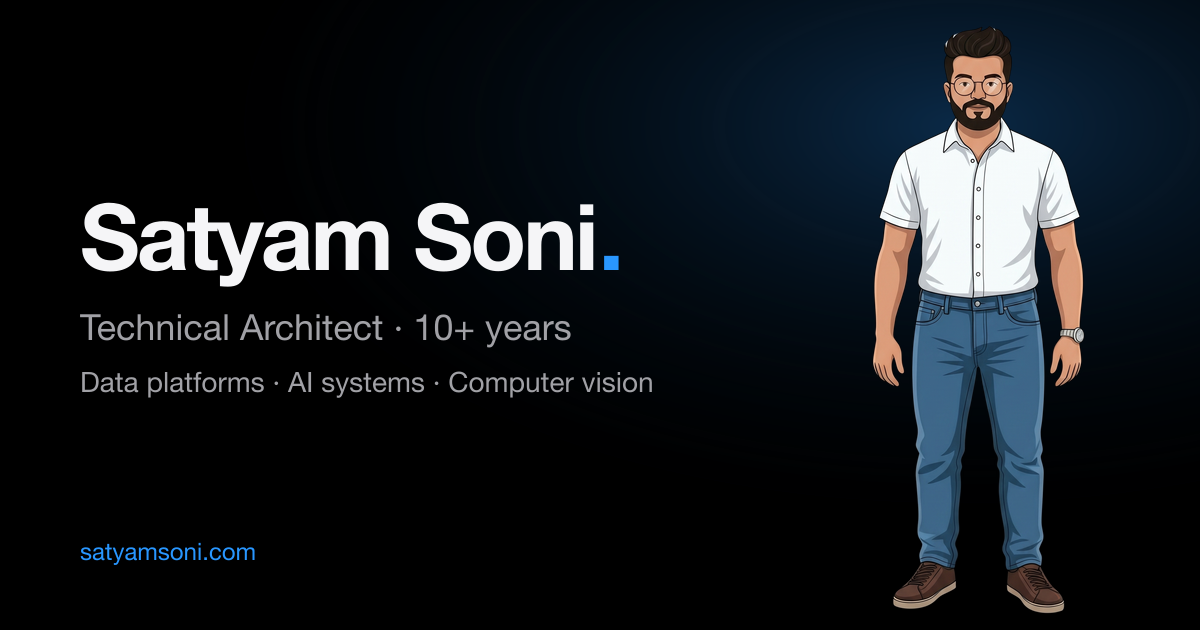
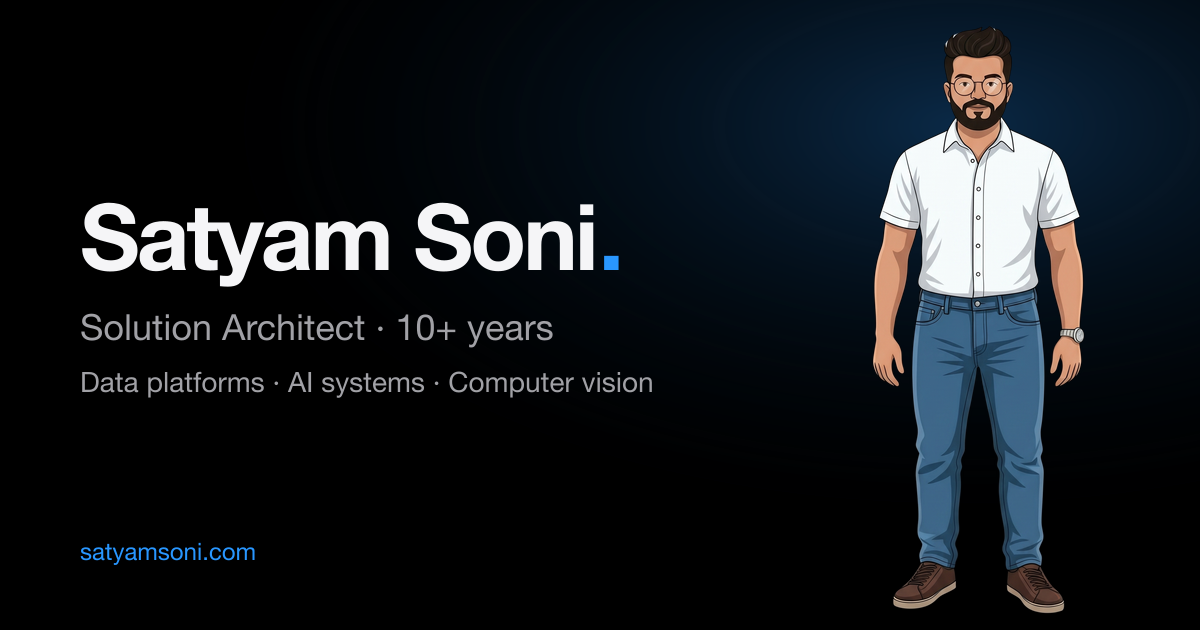
feat: EPAM Solution Architect role and Speaking section

Changed region(s): [[0.0617, 0.4825, 0.4933, 0.5429]]

diff --git a/index.html b/index.html
@@ -12,22 +12,22 @@
     </script>
     <meta charset="UTF-8" />
     <meta name="viewport" content="width=device-width, initial-scale=1.0, viewport-fit=cover" />
-    <title>Satyam Soni — Technical Architect</title>
-    <meta name="description" content="Satyam Soni is a Technical Architect with 10+ years of experience building data platforms, AI/LLM systems and computer-vision products across finance, telecom, real estate and manufacturing." />
+    <title>Satyam Soni — Solution Architect</title>
+    <meta name="description" content="Satyam Soni is a Solution Architect with 10+ years of experience building data platforms, AI/LLM systems and computer-vision products across finance, telecom, real estate and manufacturing." />
     <meta name="author" content="Satyam Soni" />
-    <meta name="keywords" content="Technical Architect, Python, AI, LLM, GraphRAG, Computer Vision, YOLO, FastAPI, AWS, Data Engineering" />
+    <meta name="keywords" content="Solution Architect, Python, AI, LLM, GraphRAG, Computer Vision, YOLO, FastAPI, AWS, Data Engineering" />
     <link rel="canonical" href="https://www.satyamsoni.com/" />
     <link rel="icon" type="image/svg+xml" href="/favicon.svg" />
     <meta name="theme-color" content="#fbfbfd" media="(prefers-color-scheme: light)" />
     <meta name="theme-color" content="#000000" media="(prefers-color-scheme: dark)" />
     <meta property="og:type" content="website" />
     <meta property="og:url" content="https://www.satyamsoni.com/" />
-    <meta property="og:title" content="Satyam Soni — Technical Architect" />
+    <meta property="og:title" content="Satyam Soni — Solution Architect" />
     <meta property="og:description" content="10+ years building data platforms, AI systems and the teams that ship them." />
     <meta property="og:image" content="https://www.satyamsoni.com/og.png" />
     <meta name="twitter:card" content="summary_large_image" />
     <meta name="twitter:creator" content="@_satyamsoni_" />
-    <meta name="twitter:title" content="Satyam Soni — Technical Architect" />
+    <meta name="twitter:title" content="Satyam Soni — Solution Architect" />
     <meta name="twitter:description" content="10+ years building data platforms, AI systems and the teams that ship them." />
     <meta name="twitter:image" content="https://www.satyamsoni.com/og.png" />
   </head>

diff --git a/src/data/profile.ts b/src/data/profile.ts
@@ -1,6 +1,6 @@
 export const profile = {
   name: 'Satyam Soni',
-  role: 'Technical Architect',
+  role: 'Solution Architect',
   location: 'Indore, Madhya Pradesh',
   email: 'satyamsoni@hotmail.co.uk',
   github: 'https://github.com/satyamsoni2211',
@@ -9,7 +9,7 @@ export const profile = {
   website: 'https://satyamsoni.in',
   pitch: 'I design data platforms, AI systems and the teams that ship them.',
   metaDescription:
-    'Satyam Soni is a Technical Architect with 10+ years of experience building data platforms, AI/LLM systems and computer-vision products across finance, telecom, real estate and manufacturing.',
+    'Satyam Soni is a Solution Architect with 10+ years of experience building data platforms, AI/LLM systems and computer-vision products across finance, telecom, real estate and manufacturing.',
   bio: [
     'Results-driven Technology Specialist with 10+ years of experience delivering data-centric solutions, driving software development, and implementing ETL pipelines and platform integration solutions to unlock scale across the finance, telecom, and real estate industries.',
     'Proven expertise in Artificial Intelligence (AI) and Large Language Models (LLMs), leveraging cutting-edge techniques to develop intelligent solutions. Adept at establishing collaboration frameworks for internal teams, building strong relationships with stakeholders, and recommending process improvements to optimize workflows.',
@@ -18,7 +18,7 @@ export const profile = {
   pillars: [
     { title: 'Data & Platforms', body: 'ETL pipelines on Airflow, cloud-native microservices on AWS, and integrations that unlock scale.' },
     { title: 'AI & LLMs', body: 'GraphRAG chatbots, GPT-4o extraction pipelines and computer-vision systems running in production.' },
-    { title: 'Leadership', body: 'Sprint planning, architecture direction and hands-on technical guidance for teams of 10+ developers.' },
+    { title: 'Leadership', body: 'Sprint planning, architecture direction, pre-sales and RFPs, hiring, and hands-on technical guidance for teams of 10+ developers.' },
   ],
   industries: ['Finance', 'Telecom', 'Real Estate', 'Manufacturing', 'Fitness', 'Sports'],
   contactBlurb: 'Feel free to reach out for collaboration, consulting, or just to chat about AI and architecture!',

diff --git a/src/sections/Speaking.tsx b/src/sections/Speaking.tsx
@@ -1,0 +1,49 @@
+import { ArrowUpRight } from 'lucide-react'
+import { RevealGroup, RevealItem } from '@/components/Reveal'
+import { Section } from '@/components/Section'
+import { Tag } from '@/components/Tag'
+import { TiltCard } from '@/components/TiltCard'
+import { talks } from '@/data/talks'
+
+const events = [...new Set(talks.map((t) => t.event))]
+const eventList = events.length > 1 ? `${events.slice(0, -1).join(', ')} and ${events[events.length - 1]}` : events[0]
+
+export function Speaking() {
+  return (
+    <Section
+      id="speaking"
+      eyebrow="Speaking"
+      title="Teaching what I build."
+      intro={`${talks.length} workshops at ${eventList}.`}
+    >
+      <RevealGroup as="ul" className="grid gap-4 sm:grid-cols-2">
+        {talks.map((talk) => (
+          <RevealItem as="li" key={talk.url} pop>
+            <TiltCard>
+              <a
+                href={talk.url}
+                target="_blank"
+                rel="noopener noreferrer"
+                className="card group flex h-full flex-col p-6 focus-visible:outline-none focus-visible:ring-2 focus-visible:ring-accent"
+              >
+                <div className="flex flex-wrap items-center gap-2 text-xs font-medium">
+                  <span className="rounded-full bg-accent/10 px-2.5 py-1 text-accent">{talk.event}</span>
+                  <span className="text-muted">{[talk.year, talk.city].filter(Boolean).join(' · ')}</span>
+                  <span className="ml-auto">
+                    <Tag>{talk.kind}</Tag>
+                  </span>
+                </div>
+                <h3 className="mt-4 text-xl font-semibold tracking-tight">{talk.title}</h3>
+                {talk.subtitle && <p className="mt-2 text-muted">{talk.subtitle}</p>}
+                <span className="mt-auto inline-flex items-center gap-1 pt-6 text-sm font-medium text-accent">
+                  View session
+                  <ArrowUpRight aria-hidden className="h-4 w-4 transition-transform group-hover:-translate-y-0.5 group-hover:translate-x-0.5" />
+                </span>
+              </a>
+            </TiltCard>
+          </RevealItem>
+        ))}
+      </RevealGroup>
+    </Section>
+  )
+}

diff --git a/src/sections/sections.test.tsx b/src/sections/sections.test.tsx
@@ -15,6 +15,7 @@ import { vi } from 'vitest'
 import { Contact } from './Contact'
 import { Education } from './Education'
 import { Skills } from './Skills'
+import { Speaking } from './Speaking'
 
 const wrap = (ui: React.ReactNode) => render(<AppProviders>{ui}</AppProviders>)
 
@@ -49,14 +50,14 @@ describe('Experience', () => {
     expect(firstSentence('No stop')).toBe('No stop')
   })
 
-  test('lists 5 roles; first is open; clicking another expands it', () => {
+  test('lists 6 roles; first is open; clicking another expands it', () => {
     wrap(<Experience />)
     const toggles = screen.getAllByRole('button').filter((b) => b.hasAttribute('aria-expanded'))
-    expect(toggles).toHaveLength(5)
+    expect(toggles).toHaveLength(6)
     expect(toggles[0]).toHaveAttribute('aria-expanded', 'true')
-    expect(toggles[1]).toHaveAttribute('aria-expanded', 'false')
-    fireEvent.click(toggles[1])
-    expect(toggles[1]).toHaveAttribute('aria-expanded', 'true')
+    expect(toggles[2]).toHaveAttribute('aria-expanded', 'false')
+    fireEvent.click(toggles[2])
+    expect(toggles[2]).toHaveAttribute('aria-expanded', 'true')
     expect(screen.getByText(/Designed fault-tolerant cloud-native architectures on AWS/)).toBeInTheDocument()
   })
 })
@@ -85,6 +86,20 @@ describe('Projects', () => {
     fireEvent.click(freelance)
     expect(freelance).toHaveAttribute('aria-pressed', 'true')
     await waitFor(() => expect(screen.queryByRole('link', { name: /FUSION/ })).not.toBeInTheDocument(), { timeout: 3000 })
+  })
+})
+
+describe('Speaking', () => {
+  test('renders four external talk links under the heading', () => {
+    wrap(<Speaking />)
+    expect(screen.getByRole('heading', { level: 2, name: 'Teaching what I build.' })).toBeInTheDocument()
+    const links = screen.getAllByRole('link')
+    expect(links).toHaveLength(4)
+    for (const a of links) {
+      expect(a).toHaveAttribute('target', '_blank')
+      expect(a.getAttribute('rel')).toContain('noopener')
+    }
+    expect(links[0]).toHaveAttribute('href', 'https://pycon.hk/2026/en/speakers/satyam-soni/')
   })
 })
 

diff --git a/src/data/data.test.ts b/src/data/data.test.ts
@@ -5,6 +5,7 @@ import { profile } from './profile'
 import { projects } from './projects'
 import { SECTION_IDS } from './sections'
 import { skillCategories } from './skills'
+import { talks } from './talks'
 
 describe('content data', () => {
   test('has 9 projects in the agreed order with unique slugs', () => {
@@ -48,11 +49,12 @@ describe('content data', () => {
     expect(bySlug['crickbuzz'].models).toEqual(['YOLO26 (custom-trained)'])
   })
 
-  test('5 jobs newest first, 8 skill categories, education present', () => {
+  test('6 jobs newest first, 8 skill categories, education present', () => {
     expect(experience.map((j) => j.company)).toEqual([
-      'SenecaGlobal Solutions Pvt Ltd.', 'HSBC Software Development (India) Pvt. Ltd.',
+      'EPAM India', 'SenecaGlobal Solutions Pvt Ltd.', 'HSBC Software Development (India) Pvt. Ltd.',
       'Infosys Ltd', 'Amdocs Development Centre India LLP', 'Gemini Solutions Pvt Ltd.',
     ])
+    expect(experience[1].period.endsWith('Sep 2025')).toBe(true)
     expect(skillCategories).toHaveLength(8)
     expect(education.school).toBe('Chamelidevi School of Engineering')
   })
@@ -63,7 +65,15 @@ describe('content data', () => {
     expect(text).not.toContain('9+')
   })
 
+  test('talks: 4 workshops, newest first, https links', () => {
+    expect(talks).toHaveLength(4)
+    const years = talks.map((t) => t.year)
+    expect(years).toEqual([...years].sort((a, b) => b - a))
+    expect(talks.every((t) => t.url.startsWith('https://'))).toBe(true)
+    expect(talks.every((t) => t.kind === 'Workshop')).toBe(true)
+  })
+
   test('section ids are fixed', () => {
-    expect(SECTION_IDS).toEqual(['hero', 'about', 'experience', 'projects', 'skills', 'education', 'contact'])
+    expect(SECTION_IDS).toEqual(['hero', 'about', 'experience', 'projects', 'speaking', 'skills', 'education', 'contact'])
   })
 })

diff --git a/src/data/experience.ts b/src/data/experience.ts
@@ -2,10 +2,19 @@ import type { Job } from './types'
 
 export const experience: Job[] = [
   {
+    company: 'EPAM India',
+    location: 'India',
+    role: 'Solution Architect – GenAI, Cloud',
+    period: 'Oct 2025 – Present',
+    description:
+      'Architecting and developing GenAI solutions for clients. Driving pre-sales and RFP activities. Mentoring developers and supporting resourcing and technical interviews. Part of the Cloud vertical, working primarily in Python.',
+    technologies: ['Python', 'Generative AI', 'LLMs', 'Cloud', 'Solution Architecture', 'Pre-sales & RFPs', 'Mentoring'],
+  },
+  {
     company: 'SenecaGlobal Solutions Pvt Ltd.',
     location: 'Hyderabad, Telangana',
     role: 'Technical Architect – Real Estate, Finance',
-    period: 'Jan 2022 – Present',
+    period: 'Jan 2022 – Sep 2025',
     description:
       'Led the development and integration of microservices using Python (FastAPI, Flask) on AWS, enhancing platform scalability. Designed ETL workflows using Airflow to ingest data from various vendors. Spearheaded development of "Fusion," an AI-powered chatbot using GraphRAG for knowledge graph interaction. Leveraged GPT-4o to automate content extraction from HTML files, improving efficiency by 50%. Implemented micro-frontend architecture and streamlined deployment using Docker and ECS, reducing deployment time by 30%. Directed sprint planning and provided technical guidance to a team of 10+ developers.',
     technologies: ['Python', 'FastAPI', 'Flask', 'AWS', 'Airflow', 'GraphRAG', 'GPT-4o', 'Docker', 'ECS', 'React', 'Vue.js'],

diff --git a/src/data/talks.ts b/src/data/talks.ts
@@ -1,0 +1,39 @@
+import type { Talk } from './types'
+
+export const talks: Talk[] = [
+  {
+    title: 'Why Your FastAPI Is Not Fast',
+    subtitle: 'A Deep Dive into Hidden Bottlenecks',
+    kind: 'Workshop',
+    event: 'PyCon Hong Kong',
+    year: 2026,
+    city: 'Hong Kong',
+    url: 'https://pycon.hk/2026/en/speakers/satyam-soni/',
+  },
+  {
+    title: 'Mastering the Multi-Stack',
+    subtitle: 'Orchestrated Debugging with Python and Beyond',
+    kind: 'Workshop',
+    event: 'PyConf Hyderabad',
+    year: 2026,
+    city: 'Hyderabad',
+    url: 'https://2026.pyconfhyd.org/speakers/satyam-soni',
+  },
+  {
+    title: 'Debugging Python Applications like a Pro',
+    kind: 'Workshop',
+    event: 'PyConf Hyderabad',
+    year: 2025,
+    city: 'Hyderabad',
+    url: 'https://2025.pyconfhyd.org/speakers/satyam-soni',
+  },
+  {
+    title: 'Decorators and Generators',
+    subtitle: 'Control your code with ease',
+    kind: 'Workshop',
+    event: 'PyConf Hyderabad',
+    year: 2022,
+    city: 'Hyderabad',
+    url: 'https://pyconf.hydpy.org/2022/#timetable',
+  },
+]

diff --git a/src/guide/tips.ts b/src/guide/tips.ts
@@ -3,6 +3,7 @@ export const TIPS: Record<string, string> = {
   about: 'Ten years across finance, telecom and real estate — here’s the short version.',
   experience: 'Click any role to read the full story.',
   projects: 'The big tiles are my freelance builds — open one for the full case study.',
+  speaking: 'I love teaching what I build — these are my workshops.',
   skills: 'Python is home base, but I’m comfortable across the stack.',
   education: 'Where it all started — Indore, 2016.',
   contact: 'Say hi! The copy button grabs my email in one click.',

diff --git a/tests/seo.test.ts b/tests/seo.test.ts
@@ -6,7 +6,7 @@ const html = readFileSync('index.html', 'utf8')
 const sitemap = readFileSync('public/sitemap.xml', 'utf8')
 
 test('index.html carries title, 10+ description, OG and favicon', () => {
-  expect(html).toContain('<title>Satyam Soni — Technical Architect</title>')
+  expect(html).toContain('<title>Satyam Soni — Solution Architect</title>')
   expect(html).toMatch(/name="description" content="[^"]*10\+ years/)
   expect(html).toContain('property="og:image" content="https://www.satyamsoni.com/og.png"')
   expect(html).toContain('href="/favicon.svg"')

diff --git a/src/pages/Home.tsx b/src/pages/Home.tsx
@@ -10,6 +10,7 @@ import { Experience } from '@/sections/Experience'
 import { Hero } from '@/sections/Hero'
 import { Projects } from '@/sections/Projects'
 import { Skills } from '@/sections/Skills'
+import { Speaking } from '@/sections/Speaking'
 
 export default function Home() {
   const location = useLocation()
@@ -28,6 +29,7 @@ export default function Home() {
       <About />
       <Experience />
       <Projects />
+      <Speaking />
       <Skills />
       <Education />
       <Contact />

diff --git a/src/background/palettes.ts b/src/background/palettes.ts
@@ -12,6 +12,7 @@ export const PALETTES: Record<SectionId, Palette> = {
   about: p('#00d4c8', '#2a8cff', '#6a5cff'),
   experience: p('#2a6cff', '#5b4bff', '#00c2ff'),
   projects: p('#8a4bff', '#ff4bd8', '#4b6bff'),
+  speaking: p('#00d4c8', '#ffb347', '#2bff88'),
   skills: p('#ff4bd8', '#ffb347', '#8a4bff'),
   education: p('#ffb347', '#7dff6a', '#00d4c8'),
   contact: p('#2bff88', '#00d4c8', '#8a4bff'),

diff --git a/src/data/sections.ts b/src/data/sections.ts
@@ -2,6 +2,7 @@ export const SECTIONS = [
   { id: 'about', label: 'About', nav: true },
   { id: 'experience', label: 'Experience', nav: true },
   { id: 'projects', label: 'Projects', nav: true },
+  { id: 'speaking', label: 'Speaking', nav: true },
   { id: 'skills', label: 'Skills', nav: true },
   { id: 'education', label: 'Education', nav: false },
   { id: 'contact', label: 'Contact', nav: true },
